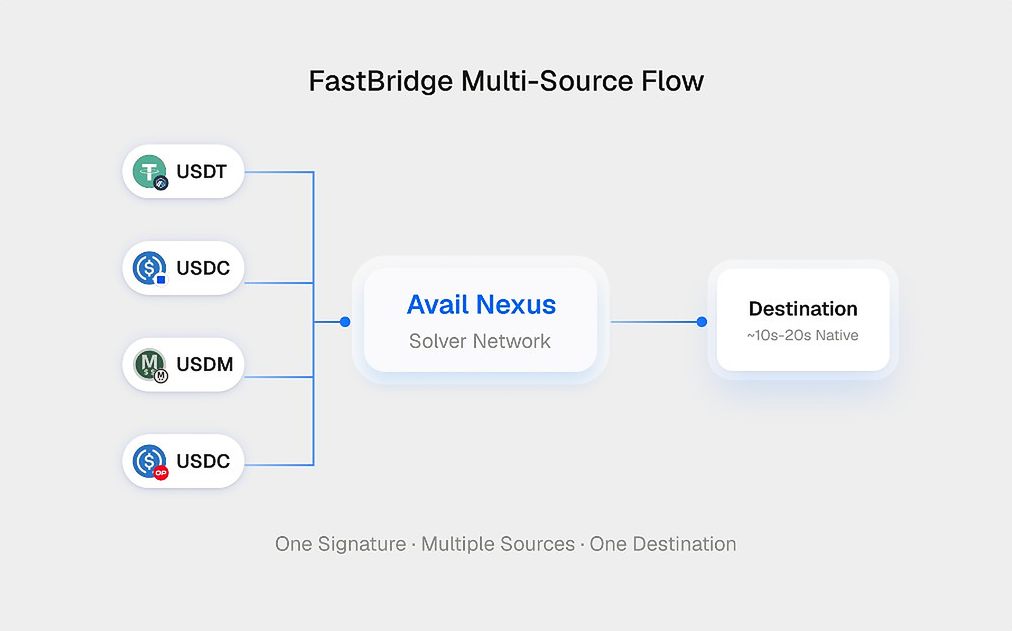
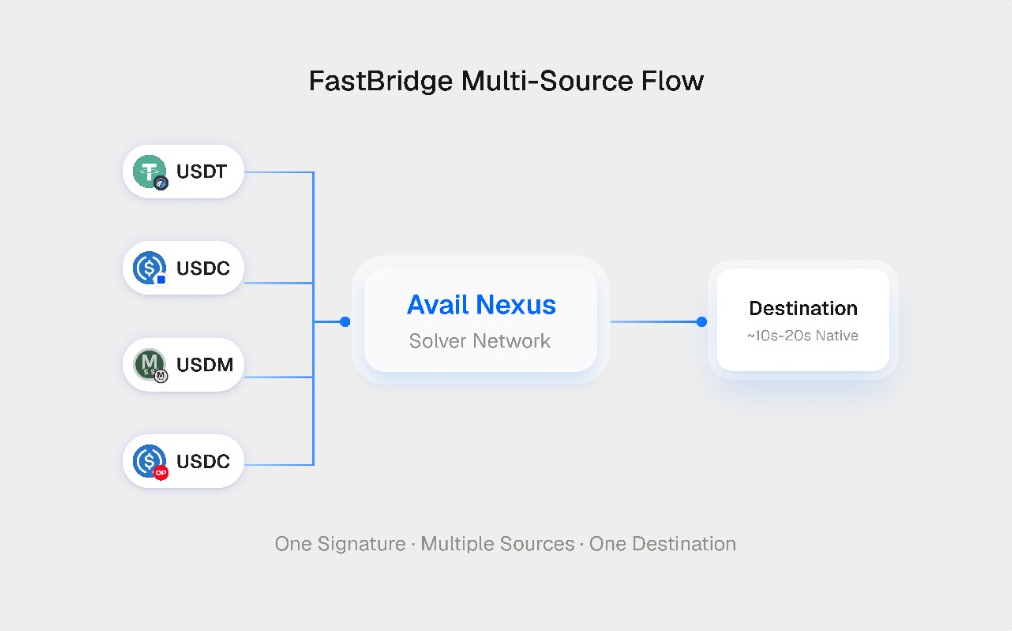
Replace guide images with the latest Figma exports.
Use the new 4x swap screenshot and updated multi-source flow diagram, convert them to PNG, and refresh cache-busting query params on the guide page.

diff --git a/best-cross-chain-bridge-2026.html b/best-cross-chain-bridge-2026.html
@@ -13,7 +13,7 @@
   <link rel="stylesheet" href="hero.css?v=53">
   <link rel="stylesheet" href="sections.css?v=30">
   <link rel="stylesheet" href="faq.css?v=12">
-  <link rel="stylesheet" href="seo-page.css?v=33">
+  <link rel="stylesheet" href="seo-page.css?v=34">
   <link rel="stylesheet" href="button-hovers.css?v=20260605">
 </head>
 <body>
@@ -109,8 +109,8 @@
               </div>
               <p class="seo-pick__tagline"><strong>Best for:</strong> consolidating assets from multiple chains; cross-chain swaps; onboarding to new EVM L2s without managing gas.</p>
               <figure class="seo-pick__screenshot seo-pick__screenshot--filled">
-                <a href="assets/branding/screenshots/fastbridge-swap-ui-light@2x.png" target="_blank" rel="noopener noreferrer">
-                  <img src="assets/branding/screenshots/fastbridge-swap-ui-light.png" srcset="assets/branding/screenshots/fastbridge-swap-ui-light.png 1024w, assets/branding/screenshots/fastbridge-swap-ui-light@2x.png 2048w" sizes="(max-width: 1024px) 100vw, 1024px" alt="FastBridge Swap interface with send, receive, and recipient fields" width="1024" height="642" decoding="async" fetchpriority="high">
+                <a href="assets/branding/screenshots/fastbridge-swap-ui-light@2x.png?v=2" target="_blank" rel="noopener noreferrer">
+                  <img src="assets/branding/screenshots/fastbridge-swap-ui-light.png?v=2" srcset="assets/branding/screenshots/fastbridge-swap-ui-light.png?v=2 1024w, assets/branding/screenshots/fastbridge-swap-ui-light@2x.png?v=2 2048w" sizes="(max-width: 1024px) 100vw, 1024px" alt="FastBridge Swap interface with send, receive, and recipient fields" width="1024" height="642" decoding="async" fetchpriority="high">
                 </a>
                 <figcaption>Screenshot · fastbridge.availproject.org</figcaption>
               </figure>
@@ -323,7 +323,7 @@
           <p>Intent-based bridges flip the model. The user declares an outcome, <em>"I want X USDC on chain Y"</em>, and a solver fulfills the intent using their own liquidity on the destination chain, delivering native tokens in seconds. The solver is reimbursed on-chain after verification. FastBridge, Across, and deBridge all use this architecture.</p>
 
           <figure class="seo-flow">
-            <img src="assets/branding/diagrams/fastbridge-multi-source-flow.png?v=5" srcset="assets/branding/diagrams/fastbridge-multi-source-flow.png?v=5 1012w, assets/branding/diagrams/fastbridge-multi-source-flow@2x.png?v=5 2024w" sizes="(max-width: 1012px) 100vw, 1012px" alt="FastBridge multi-source flow diagram showing USDT, USDC, USDM, and USDC on Optimism flowing through Avail Nexus solver network to a destination in one signature" width="1012" height="631" loading="lazy" decoding="async">
+            <img src="assets/branding/diagrams/fastbridge-multi-source-flow.png?v=6" srcset="assets/branding/diagrams/fastbridge-multi-source-flow.png?v=6 1012w, assets/branding/diagrams/fastbridge-multi-source-flow@2x.png?v=6 2024w" sizes="(max-width: 1012px) 100vw, 1012px" alt="FastBridge multi-source flow diagram showing USDT, USDC, USDM, and USDC on Optimism flowing through Avail Nexus solver network to a destination in one signature" width="1012" height="631" loading="lazy" decoding="async">
           </figure>
 
           <p>FastBridge extends the intent model further. Most intent bridges still resolve to one source chain per intent. <strong>FastBridge resolves a single intent across multiple source chains simultaneously</strong>, and can swap into a different destination token in the same flow.</p>
